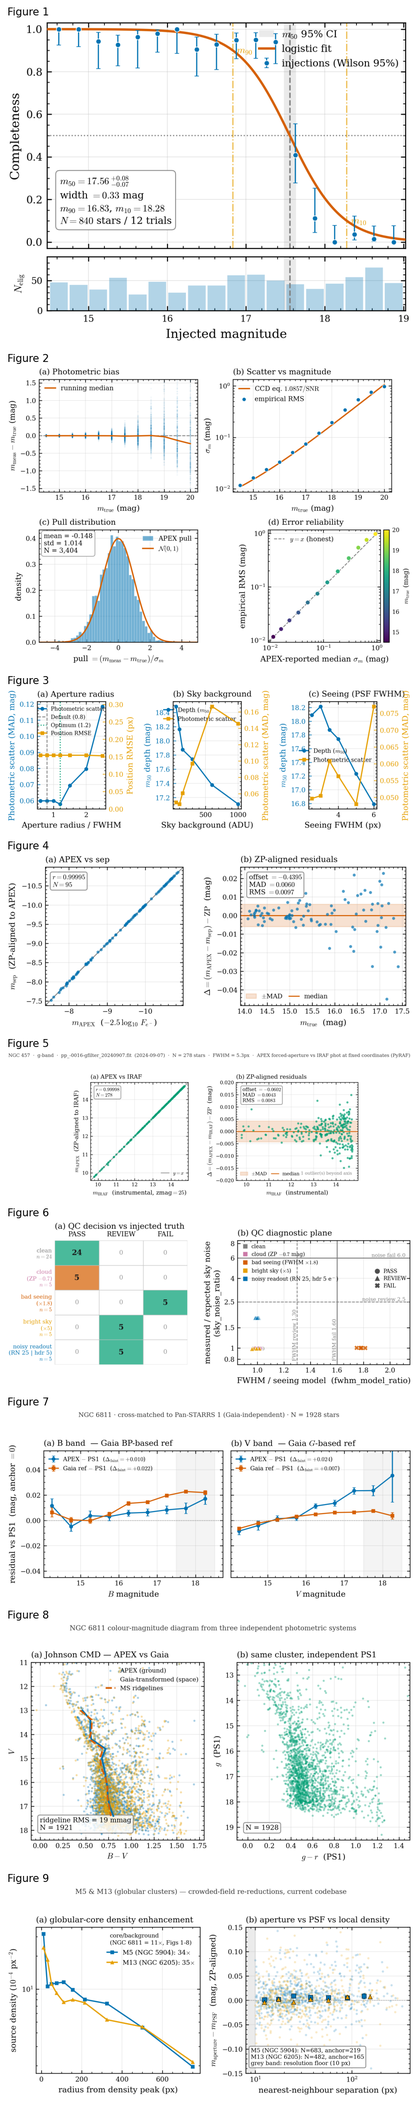
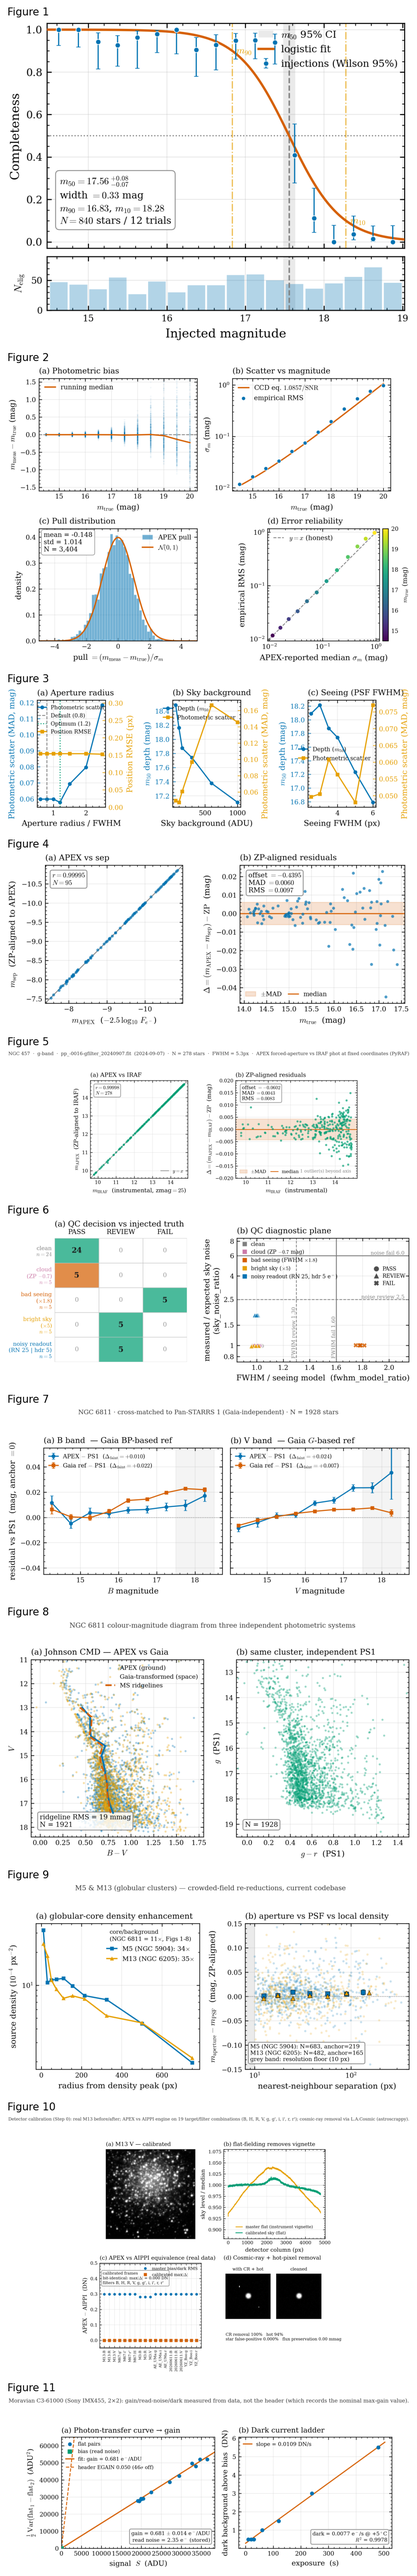
docs(paper): add Fig 10/11 to the figure index and contact sheet

Changed region(s): [[0.0, 0.0, 0.9917, 1.0], [0.0, 0.4375, 0.031, 0.4688]]

diff --git a/validation/paper/assemble_figures.py b/validation/paper/assemble_figures.py
@@ -35,6 +35,8 @@ FIGURES = [
     ("fig7_reference_crosscheck", "Cross-catalog reference validation (PS1) — a Gaia BP faint bias"),
     ("fig8_cmd_reproduction", "CMD reproduction across three independent photometric systems"),
     ("fig9_crowded_field", "Crowded-field validation on a real globular cluster (M5)"),
+    ("fig10_calibration", "Detector calibration (Step 0): flat-field, APEX-vs-AIPPI equivalence, cosmetics"),
+    ("fig11_detector", "Detector characterisation from data (PTC gain, read noise, dark current)"),
 ]
 
 

diff --git a/validation/paper/FIGURES.md b/validation/paper/FIGURES.md
@@ -536,3 +536,56 @@ dataset, and remains open. Note also (§4.3) that M5, M13, and every other
 cluster in this validation share the identical camera (Moravian
 Instruments C3-61000) — this replication is across two *fields*, not two
 *instruments*.
+
+## Figure 10 — Detector calibration (Step 0): flat-field, APEX-vs-AIPPI equivalence, cosmetics
+
+![Figure 10](figures/fig10_calibration.png)
+
+Vector: [`figures/fig10_calibration.pdf`](figures/fig10_calibration.pdf) · Script: [`fig10_calibration.py`](fig10_calibration.py)
+
+# Figure 10 — Detector calibration (Step 0) validation
+
+**Figure 10.** Three independent lines of evidence that APEX's built-in detector
+calibration (bias/dark/flat, Step 0) is correct. **(a,b)** A real M13 *V* frame
+before and after APEX calibration (identical asinh stretch): the optical
+vignette and fixed-pattern structure are removed. **(c)** Equivalence to the
+reference pipeline: APEX vs the AstralImage/AIPPI engine (documented to match
+PixInsight WBPP within tolerance) on 19 target/filter combinations
+across several nights, filters (B, H, R, V, g, g', i, i', r, r') and exposures. Master
+bias/dark frames agree to $\sim$0.3 DN (0.06 %) and the fully calibrated
+science frames are **bit-identical** (max$|\Delta| = 0.000$ DN). **(d)**
+Cosmetic correction (cosmic rays + hot pixels) via L.A.Cosmic
+(astroscrappy; van Dokkum 2001): injected artefacts are removed
+(100 % of cosmic-ray pixels,
+94 % of hot pixels) while real stars are
+preserved (star-core false-positive rate 0.000 %,
+aperture-flux change 0.00 mmag).
+
+**Verdict.** APEX reproduces the reference calibration to the bit on real data
+across targets/filters/exposures, and its optional cosmic-ray/hot-pixel step
+follows the standard L.A.Cosmic algorithm without harming photometry — so APEX
+performs detector calibration end-to-end (raw$\to$science), not just aperture
+photometry on externally-calibrated frames.
+
+## Figure 11 — Detector characterisation from data (PTC gain, read noise, dark current)
+
+![Figure 11](figures/fig11_detector.png)
+
+Vector: [`figures/fig11_detector.pdf`](figures/fig11_detector.pdf) · Script: [`fig11_detector.py`](fig11_detector.py)
+
+# Figure 11 — Detector characterisation from the data
+
+**Figure 11.** Gain, read noise, and dark current of the Moravian C3-61000
+(Sony IMX455, 2×2 binned) measured directly from APEX's own calibration frames.
+**(a)** Photon-transfer curve: the variance of same-level flat-pair differences
+(which cancel PRNU and vignette) versus signal, over 12 clean pairs
+spanning 19120–36510 ADU. The slope gives
+gain = 0.681 ± 0.014 e⁻/ADU (stored pixel); the read noise from a
+bias-pair difference is 2.35 e⁻ (stored) / 1.18 e⁻
+(native), consistent with the IMX455 laboratory value (Alarcón et al. 2023). The
+FITS-header EGAIN (0.0495 e⁻/ADU, the nominal MaxIm max-gain value) implies
+a 14× steeper line and is ruled out at 46σ — so the gain must be measured, not
+read from the header. **(b)** Dark current from the source-free background versus
+exposure across a 10–480 s ladder: linear (R² = 0.9978), slope
+0.0077 e⁻/s at +5 °C. These measured values anchor APEX's photometric error
+model to the detector's real physics.
